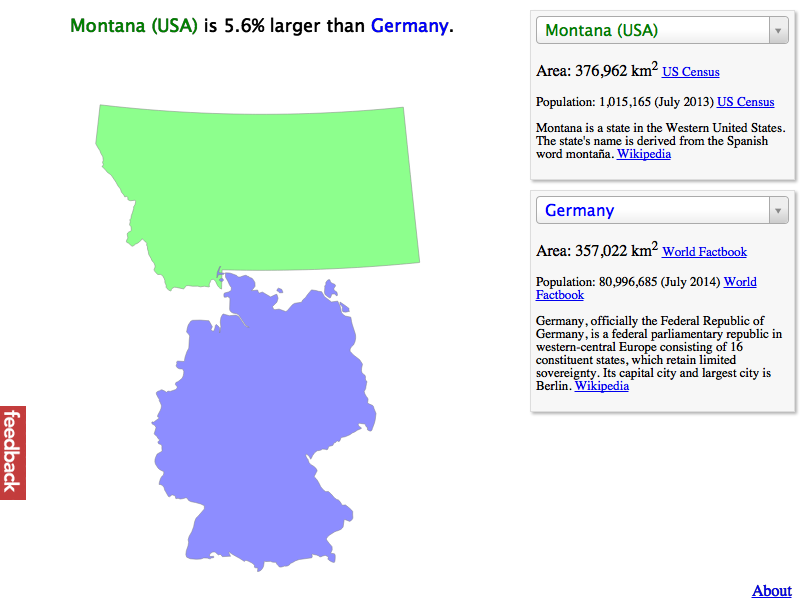
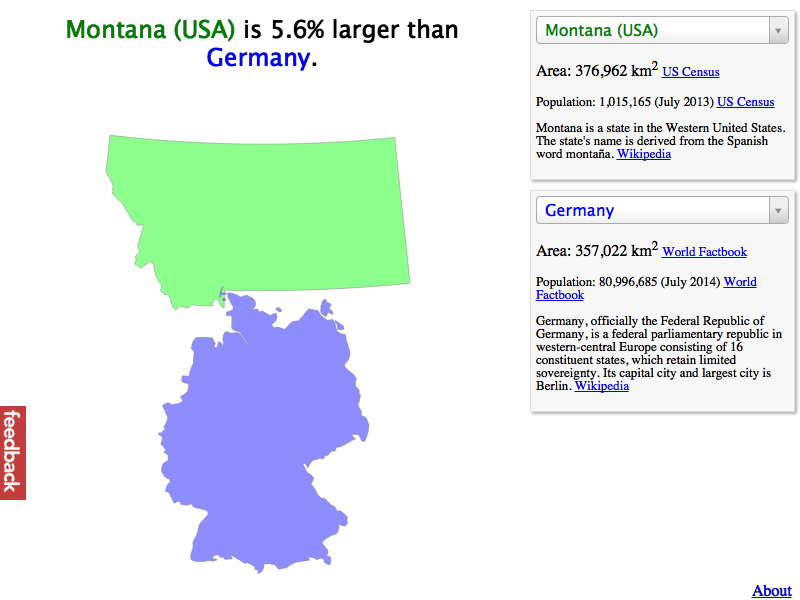
Making a change

Changed region(s): [[0.0938, 0.15, 0.5312, 0.96], [0.0625, 0.03, 0.5938, 0.12], [0.1562, 0.33, 0.1875, 0.45]]

diff --git a/comparea/static/css/comparea.css b/comparea/static/css/comparea.css
@@ -84,7 +84,7 @@ svg {
   left: 5px;
   top: 10px;
   right: 280px;
-  height: 25px;
+  height: 50px;
   text-align: center;
 }
 
@@ -95,7 +95,7 @@ svg {
   /* box-shadow: 2px 2px 4px 0px rgba(0,0,0,0.3); */
   padding: 5px;
   display: inline-table;
-  font-size: large;
+  font-size: x-large;
   margin: 0;
 }
 
